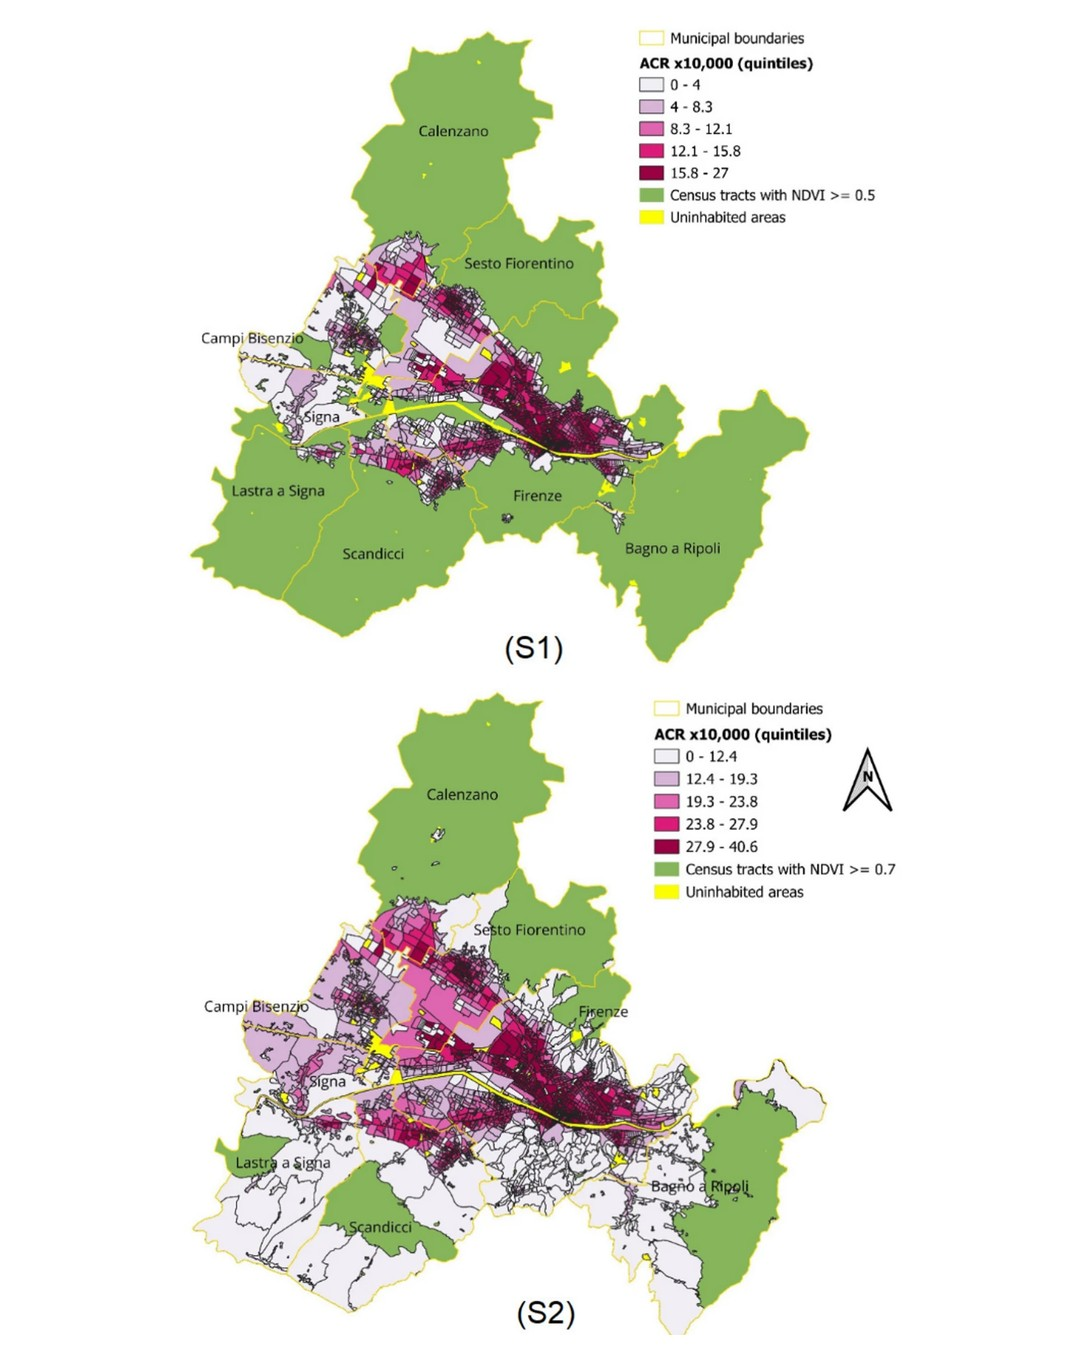
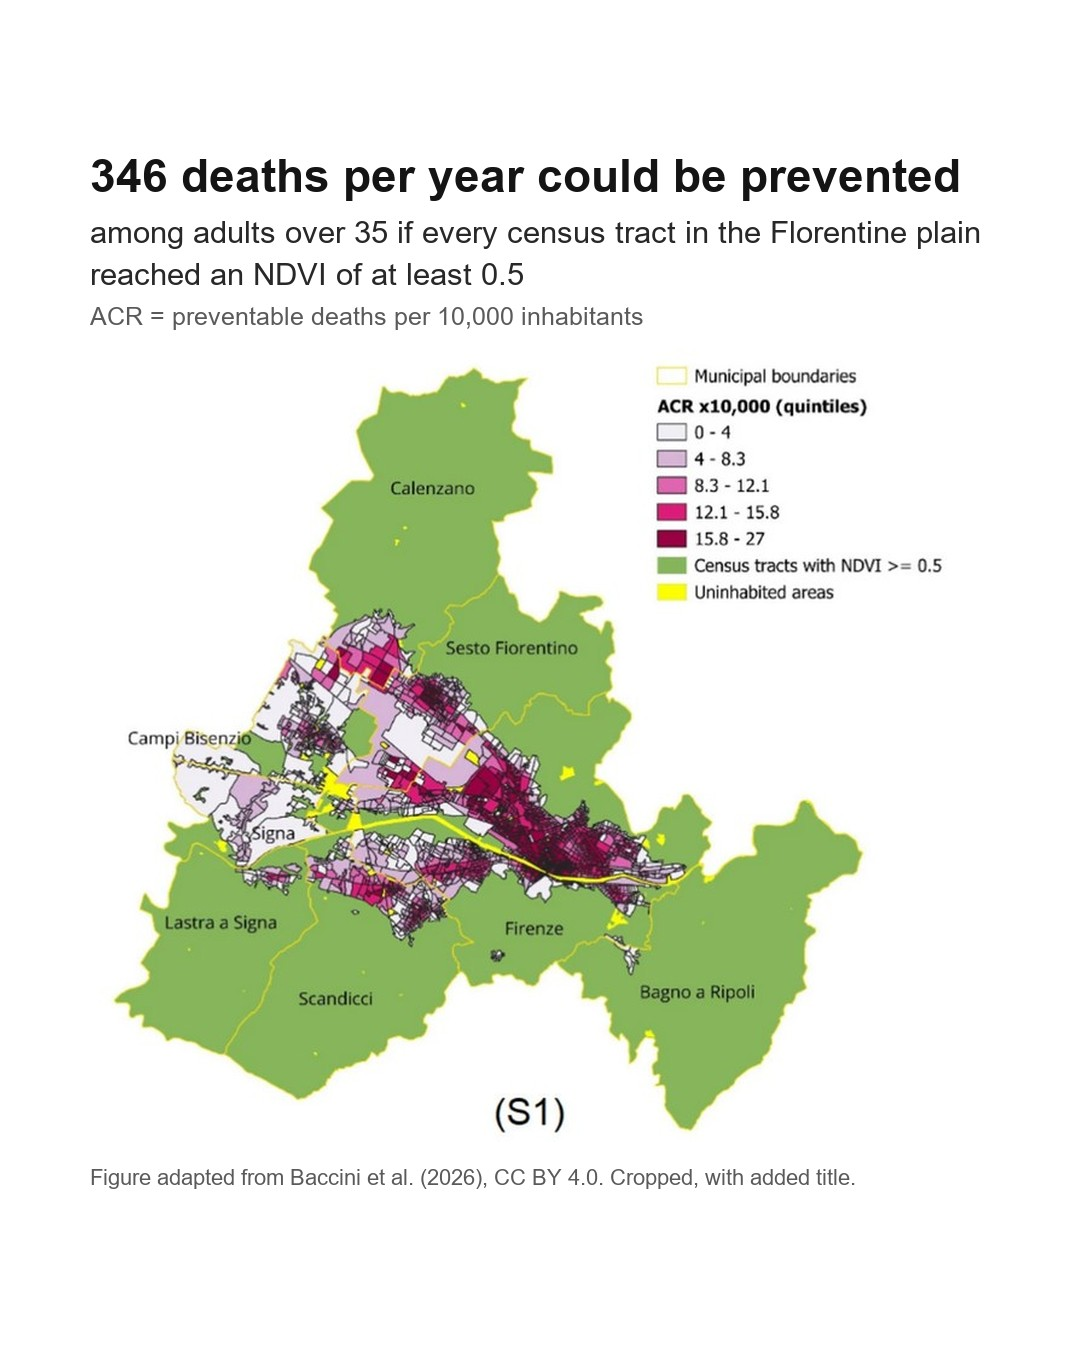
Green space article: new social card, CC BY credit, publication date, no DOI in the Facebook post
- vertical card with a headline and the S1 map inside the central square (thumbnails keep it whole)
- credit and CC BY 4.0 notice on the page and in the posts (figure cropped, title added)
- the article was published in April 2026: no longer described as new
- Facebook post without the DOI link (the page link is added when publishing)

diff --git a/social/2026-11-11_green-space-mortality-florentine-plain.md b/social/2026-11-11_green-space-mortality-florentine-plain.md
@@ -4,22 +4,22 @@ platforms: facebook, instagram, linkedin
 status: draft
 date: 2026-11-11
 image: /media/2026/11/florentine-plain-social.jpg
-alt: Two maps of the Florentine plain showing preventable deaths per 10,000 inhabitants by census tract, if every tract reached an NDVI of at least 0.5 (top) or 0.7 (bottom). The highest rates are in the urban centre of Florence.
+alt: Map of the Florentine plain showing preventable deaths per 10,000 inhabitants by census tract if every tract reached an NDVI of at least 0.5. The highest rates are in the urban centre of Florence; tracts already above the threshold are shown in green.
 ---
 
 ## Facebook
 
-🌿 More urban green space is a preventive public health strategy. A new study on the Florentine plain (Tuscany, Italy) estimates that 346 deaths per year among adults over 35 could be prevented if every census tract reached a satellite vegetation index (NDVI) of at least 0.5 within 300 m of homes, and 877 with an NDVI of at least 0.7.
+🌿 More urban green space is a preventive public health strategy. A study on the Florentine plain (Tuscany, Italy), published in April 2026, estimates that 346 deaths per year among adults over 35 could be prevented if every census tract reached a satellite vegetation index (NDVI) of at least 0.5 within 300 m of homes, and 877 with an NDVI of at least 0.7.
 
 🏛 geoLAB, the Laboratory of Forest Geomatics, is among the authors of the study, published open access in Stochastic Environmental Research and Risk Assessment.
 
-🔗 https://doi.org/10.1007/s00477-026-03217-y
+Figure adapted from Baccini et al. (2026), CC BY 4.0.
 
 #UrbanGreen
 
 ## Instagram
 
-🌿 New study: more green space in the Florentine plain (Tuscany, Italy) could prevent 346 deaths per year.
+🌿 More green space in the Florentine plain (Tuscany, Italy) could prevent 346 deaths per year, a study published in April 2026 estimates.
 
 That is the estimate among adults over 35 if every census tract reached a satellite vegetation index (NDVI) of at least 0.5 within 300 m of homes. With an NDVI of at least 0.7 the estimate is 877, or 12.5% of all deaths. The probability that more green space has an impact greater than zero exceeds 90%.
 
@@ -31,13 +31,15 @@ That is the estimate among adults over 35 if every census tract reached a satell
 
 More on geolabforest.com, in the Publications section.
 
+Figure adapted from Baccini et al. (2026), CC BY 4.0.
+
 #UrbanGreen #GreenSpace #PublicHealth #NDVI #RemoteSensing #EarthObservation #Florence #UrbanPlanning
 
 ## LinkedIn
 
 🌿 More urban green space is a preventive public health strategy: in the Florentine plain (Tuscany, Italy) it could prevent an estimated 346 deaths per year among adults over 35.
 
-The study, published open access in Stochastic Environmental Research and Risk Assessment, covers 452 km², eight municipalities and 3,412 census tracts. It combines Landsat satellite data (NDVI within 300 m of homes), 2021 mortality data and an index of socio-economic deprivation.
+The study, published open access in April 2026 in Stochastic Environmental Research and Risk Assessment, covers 452 km², eight municipalities and 3,412 census tracts. It combines Landsat satellite data (NDVI within 300 m of homes), 2021 mortality data and an index of socio-economic deprivation.
 
 📊 Five greening scenarios were compared. An NDVI of at least 0.5 in every census tract would prevent 346 deaths per year (4.9% of the total). An NDVI of at least 0.7 would prevent 877 (12.5%). The probability that more green space has an impact greater than zero exceeds 90%.
 
@@ -48,5 +50,7 @@ The study, published open access in Stochastic Environmental Research and Risk A
 🏛 geoLAB, the Laboratory of Forest Geomatics of the University of Florence, is among the authors: M. Baccini, G. Burbui, D. Nuvolone, C. Borghi, A. Lachi, S. Mancuso, G. Chirici.
 
 Full summary on geolabforest.com.
+
+Figure adapted from Baccini et al. (2026), CC BY 4.0.
 
 #UrbanGreen #PublicHealth #RemoteSensing #EarthObservation

diff --git a/content/publications/2026-11-11-green-space-mortality-florentine-plain.md b/content/publications/2026-11-11-green-space-mortality-florentine-plain.md
@@ -1,14 +1,14 @@
 ---
 title: Green space exposure and mortality in the Florentine plain
 date: 2026-11-11
-subtitle: New open access article in Stochastic Environmental Research and Risk Assessment
+subtitle: Open access article in Stochastic Environmental Research and Risk Assessment, published in April 2026
 categories: Publications
 image: /media/2026/11/florentine-plain-s1-card.jpg
 alt: Map of the Florentine plain showing preventable deaths per 10,000 inhabitants by census tract if every tract reached an NDVI of at least 0.5. The highest rates are in the urban centre of Florence, and tracts already above the threshold are shown in green.
 social_image: /media/2026/11/florentine-plain-s1-card.jpg
 ---
 
-Increasing urban green space is a preventive public health strategy. A new open access article in *Stochastic Environmental Research and Risk Assessment* shows that sufficient exposure to residential green space in the Florentine plain (Tuscany, Italy), measured with the satellite index NDVI within 300 m of homes, could prevent up to several hundred deaths per year among adults over 35 and reduce social and health inequalities. geoLAB is among the authors of the study.
+Increasing urban green space is a preventive public health strategy. An open access article published in April 2026 in *Stochastic Environmental Research and Risk Assessment* shows that sufficient exposure to residential green space in the Florentine plain (Tuscany, Italy), measured with the satellite index NDVI within 300 m of homes, could prevent up to several hundred deaths per year among adults over 35 and reduce social and health inequalities. geoLAB is among the authors of the study.
 
 ## Study area and data
 
@@ -28,7 +28,7 @@ The authors compared five hypothetical scenarios and estimated the deaths that e
 
 ![Four maps of the Florentine plain, one per scenario from S1 to S4, showing preventable deaths per 10,000 inhabitants by census tract. In scenarios S1 and S2 the highest rates are in the urban centre of Florence.](/media/2026/11/florentine-plain-scenarios-s1-s4.jpg)
 
-Preventable deaths per 10,000 inhabitants by census tract in scenarios S1 (NDVI of at least 0.5), S2 (NDVI of at least 0.7), S3 (absolute increase of 0.1) and S4 (relative increase of 20%). Source: Baccini et al. (2026).
+Preventable deaths per 10,000 inhabitants by census tract in scenarios S1 (NDVI of at least 0.5), S2 (NDVI of at least 0.7), S3 (absolute increase of 0.1) and S4 (relative increase of 20%). Source: Baccini et al. (2026), [CC BY 4.0](https://creativecommons.org/licenses/by/4.0/).
 
 ## Uncertainty
 
@@ -47,3 +47,5 @@ The largest numbers of preventable deaths are in Florence and Sesto Fiorentino, 
 ## Reference
 
 Baccini M., Burbui G., Nuvolone D., Borghi C., Lachi A., Mancuso S., Chirici G. (2026). Green space exposure and mortality in the Florentine plain: preventable deaths at the census tract level and uncertainty analysis. *Stochastic Environmental Research and Risk Assessment*, 40:99. [https://doi.org/10.1007/s00477-026-03217-y](https://doi.org/10.1007/s00477-026-03217-y)
+
+The figures on this page are adapted from the article, which is licensed under [CC BY 4.0](https://creativecommons.org/licenses/by/4.0/). The maps were cropped and rearranged.
